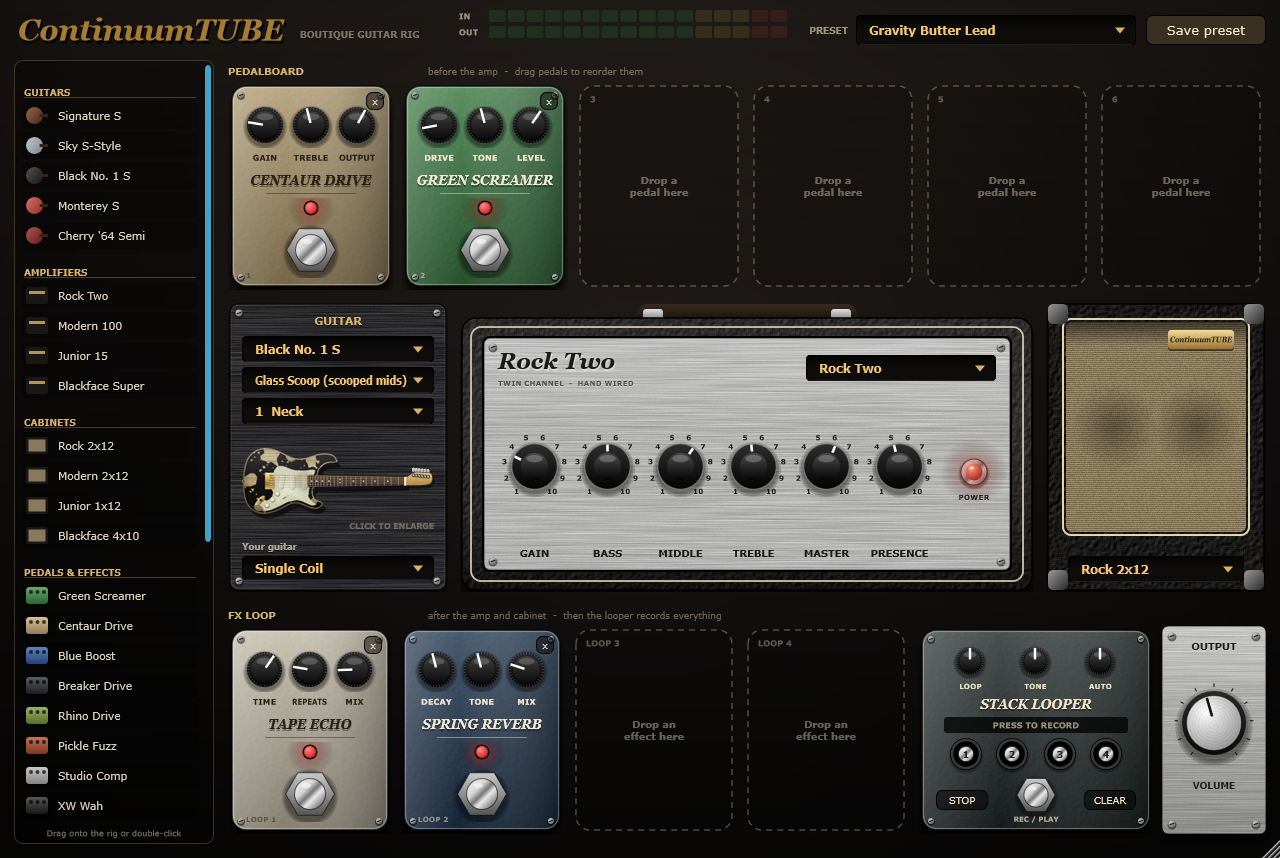
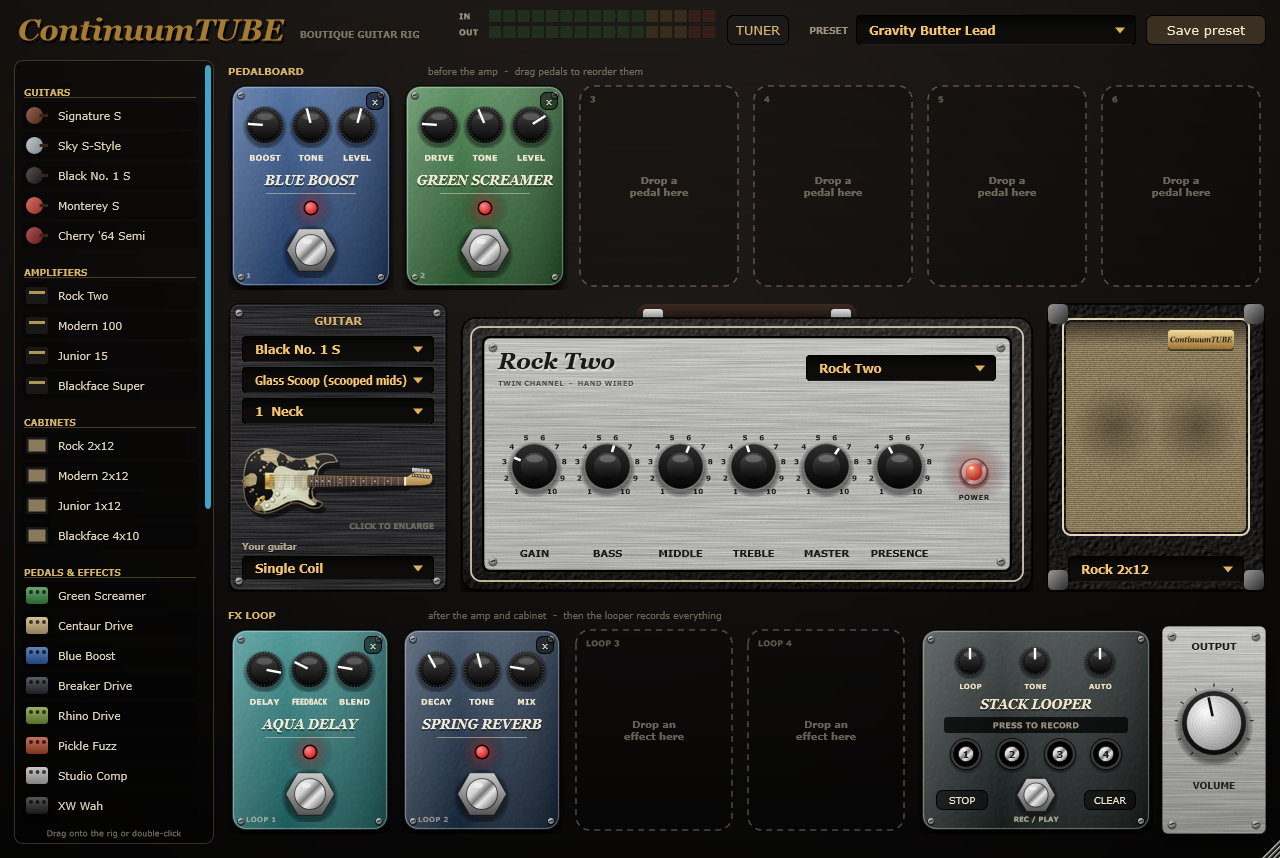
1.2.0: installer, tuner, Noise Gate / Auto Swell / Shimmer Verb, Ethereal Reverb preset, live-era Gravity and Slow Dancing

diff --git a/index.html b/index.html
@@ -4,11 +4,11 @@
 <meta charset="utf-8">
 <meta name="viewport" content="width=device-width, initial-scale=1">
 <title>ContinuumTUBE — boutique guitar rig</title>
-<meta name="description" content="ContinuumTUBE: a free boutique guitar rig for Windows. Five guitars, four tube amps with their own cabinets, twenty-two pedals, a four-track looper and fifteen song-inspired presets. VST3 plugin and standalone app.">
+<meta name="description" content="ContinuumTUBE: a free boutique guitar rig for Windows. Five guitars, four tube amps with their own cabinets, twenty-five pedals, a four-track looper, a tuner and sixteen presets. VST3 plugin and standalone app.">
 <meta property="og:type" content="website">
 <meta property="og:url" content="https://ale-studios.github.io/ContinuumTUBE/">
 <meta property="og:title" content="ContinuumTUBE — boutique guitar rig">
-<meta property="og:description" content="Five guitars, four tube amps, twenty-two pedals and a looper. Free VST3 + standalone for Windows.">
+<meta property="og:description" content="Five guitars, four tube amps, twenty-five pedals, a looper and a tuner. Free VST3 + standalone for Windows.">
 <meta property="og:image" content="https://ale-studios.github.io/ContinuumTUBE/media/shots/rig-gravity.png">
 <meta property="og:image:width" content="1280">
 <meta property="og:image:height" content="858">
@@ -140,14 +140,14 @@
   <nav>
     <a class="logo" href="#">ContinuumTUBE</a>
     <div class="links">
-      <a href="#guitars">Guitars</a><a href="#amps">Amps</a><a href="#pedals">Pedals</a><a href="#looper">Looper</a><a href="#presets">Presets</a><a href="#download">Download</a>
+      <a href="#guitars">Guitars</a><a href="#amps">Amps</a><a href="#pedals">Pedals</a><a href="#looper">Looper</a><a href="#tuner">Tuner</a><a href="#presets">Presets</a><a href="#download">Download</a>
     </div>
   </nav>
 
   <header class="hero">
     <h1>ContinuumTUBE</h1>
     <p class="lead">A boutique guitar rig for Windows. Five guitars, four tube amps with their own cabinets,
-      twenty-two pedals, a looper and fifteen song-inspired presets — as a VST3 plugin and a standalone app.</p>
+      twenty-five pedals, a looper, a tuner and sixteen presets — as a VST3 plugin and a standalone app.</p>
     <div class="video">
       <video src="media/continuumtube.webm" poster="media/shots/rig-gravity.png" controls autoplay muted loop playsinline></video>
     </div>
@@ -219,7 +219,7 @@
 
 <section id="pedals">
   <div class="wrap">
-    <h2>Twenty-two pedals</h2>
+    <h2>Twenty-five pedals</h2>
     <p class="sub">Six slots before the amp, four in the FX loop after the cabinet. Every pedal has its own face, knobs and footswitch.</p>
     <div class="board">
       <img src="media/pedals/studio-comp.png" alt="Studio Comp" loading="lazy">
@@ -233,10 +233,11 @@
       <img src="media/pedals/spring-reverb.png" alt="Spring Reverb" loading="lazy">
       <img src="media/pedals/stone-verb.png" alt="Stone Verb" loading="lazy">
     </div>
-    <p class="sub" style="margin:26px auto 0">…and twelve more:</p>
+    <p class="sub" style="margin:26px auto 0">…and fifteen more:</p>
     <div class="pedals">
       <span>Crown Drive</span><span>Twin Drive</span><span>Breaker Drive</span><span>Rhino Drive</span><span>Blues Drive K</span>
       <span>Pickle Fuzz</span><span>XW Wah</span><span>Envelope Q</span><span>Sub Octave</span><span>Script Phaser</span><span>Opto Tremolo</span><span>Hall Reverb</span>
+      <span>Noise Gate</span><span>Auto Swell</span><span>Shimmer Verb</span>
     </div>
   </div>
 </section>
@@ -249,10 +250,18 @@
   </div>
 </section>
 
+<section id="tuner">
+  <div class="wrap">
+    <h2>A tuner, one click away</h2>
+    <p class="sub">Click TUNER in the header and play a string: the note, a 25-LED cents scale and arrows that tell you which way to turn. It can mute the output while you tune.</p>
+    <figure class="shot" style="margin:0 auto;max-width:860px"><img src="media/shots/tuner.png" alt="The built-in tuner" loading="lazy"></figure>
+  </div>
+</section>
+
 <section id="presets">
   <div class="wrap">
-    <h2>Fifteen song-inspired presets</h2>
-    <p class="sub">Starting points built around the tones of specific songs and eras: mostly clean or just breaking up, with a few crunch and lead sounds that each use a different drive. All at a similar volume.</p>
+    <h2>Sixteen presets</h2>
+    <p class="sub">Starting points built around the tones of specific songs and eras: mostly clean or just breaking up, with a few crunch and lead sounds that each use a different drive. Plus Ethereal Reverb: every note swells in from silence and hangs in a huge, shimmering space. All at a similar volume.</p>
     <div class="presets">
       <div><b>Gravity Butter Lead</b><small>Black No. 1 S · Rock Two</small></div>
       <div><b>Slow Dancing Room</b><small>Black No. 1 S · Rock Two</small></div>
@@ -269,6 +278,7 @@
       <div><b>Crossroads Shuffle 335</b><small>Cherry '64 Semi · Modern 100</small></div>
       <div><b>No Such Thing Junior</b><small>Signature S · Junior 15</small></div>
       <div><b>Why Georgia Junior</b><small>Signature S · Junior 15</small></div>
+      <div><b>Ethereal Reverb</b><small>Sky S-Style · Blackface Super</small></div>
     </div>
   </div>
 </section>
@@ -276,11 +286,11 @@
 <section id="download">
   <div class="wrap">
     <h2>Get started</h2>
-    <p class="sub">Free, offline, no account. One zip with both the plugin and the standalone app.</p>
+    <p class="sub">Free, offline, no account. One installer with both the plugin and the standalone app.</p>
     <div class="steps">
-      <div class="step"><h3>Download</h3><p>Get <code>ContinuumTUBE-1.1.0-Windows.zip</code> from the <a href="https://github.com/Ale-Studios/ContinuumTUBE/releases/latest">latest release</a> and unzip it.</p></div>
-      <div class="step"><h3>Play standalone</h3><p>Run <code>ContinuumTUBE.exe</code>, open <b>Options → Audio/MIDI Settings</b> and pick your interface. Choose <b>Windows Audio (Low Latency Mode)</b> for the lowest latency.</p></div>
-      <div class="step"><h3>Or in your DAW</h3><p>Copy <code>ContinuumTUBE.vst3</code> to <code>C:\Program Files\Common Files\VST3</code> and rescan plugins.</p></div>
+      <div class="step"><h3>Install</h3><p>Get <code>ContinuumTUBE-1.2.0-Setup.exe</code> from the <a href="https://github.com/Ale-Studios/ContinuumTUBE/releases/latest">latest release</a> and run it. It installs the app and the VST3 plugin. (A plain zip is there too.)</p></div>
+      <div class="step"><h3>Play standalone</h3><p>Open ContinuumTUBE from the Start menu, then <b>Options → Audio/MIDI Settings</b> and pick your interface. Choose <b>Windows Audio (Low Latency Mode)</b> for the lowest latency.</p></div>
+      <div class="step"><h3>Or in your DAW</h3><p>Rescan plugins: ContinuumTUBE is already in the VST3 folder.</p></div>
     </div>
     <div class="cta"><a class="btn btn-brass" href="https://github.com/Ale-Studios/ContinuumTUBE/releases/latest">Download for Windows — free</a>
       <a class="btn btn-line" href="https://github.com/Ale-Studios/ContinuumTUBE/blob/main/MANUAL.md">Read the manual</a></div>

diff --git a/MANUAL.md b/MANUAL.md
@@ -12,6 +12,7 @@
 | **FX loop** (bottom) | Four slots after the cabinet, for delays, reverbs and modulation. |
 | **Stack Looper** | Four-track looper at the very end of the chain: it records everything you hear. See [Stack Looper](#stack-looper). |
 | **Output** | Final volume. Keep the **OUT** meter out of the red. |
+| **Tuner** | The **TUNER** button in the header. See [Tuner](#tuner). |
 | **Preset / Save preset** | Factory presets and your own. Saved presets go to `Documents\ContinuumTUBE Presets`. |
 
 The window can be resized or maximised: everything scales.
@@ -68,13 +69,31 @@ The window can be resized or maximised: everything scales.
 | Spring Reverb | spring reverb | Decay · Tone · Mix |
 | Stone Verb | studio reverb | Decay · Tone · Mix |
 | Hall Reverb | large hall with pre-delay | Decay · Tone · Mix |
+| Noise Gate | silences hiss and hum between notes | Thresh · Release · Range |
+| Auto Swell | every note fades in from silence, like a volume pedal | Sens · Attack · Level |
+| Shimmer Verb | huge reverb whose tail rises an octave | Decay · Shimmer · Mix |
+
+**Noise Gate** works best first on the pedalboard, or right after your drives. **THRESH** sets
+how quiet the signal must get before it closes, **RELEASE** how gently it closes, **RANGE** how
+far down it goes.
+
+**Auto Swell** restarts from silence on each new note played after a pause. **SENS** sets how
+hard you must play for it to trigger, **ATTACK** how long the fade-in takes (from an instant to
+two seconds), **LEVEL** the final volume. Legato notes are not swelled one by one; raise **SENS**
+if you want them to be.
+
+**Shimmer Verb** feeds its own tail through an octave-up shifter. **DECAY** sets the size of the
+space, **SHIMMER** how much octave-up comes back in, **MIX** how much reverb you hear.
+
+A pedal can be loaded switched off: some presets keep a drive on the board, off, for you to
+stomp on for the solo.
 
 ## Presets
 
 | Preset | Guitar | Amp | Drive | In short |
 |---|---|---|---|---|
-| Gravity Butter Lead | Black No. 1 S, neck | Rock Two | crunch | the smooth, singing lead: a transparent drive into a light mid-hump drive, tape echo |
-| Slow Dancing Room | Black No. 1 S, pos. 2 | Rock Two | edge of breakup | clean that only breaks up when you dig in |
+| Gravity Butter Lead | Black No. 1 S, neck | Rock Two | crunch | the live-era singing lead: a clean boost into a low-gain, loud mid-hump drive, analog delay and spring |
+| Slow Dancing Room | Black No. 1 S, pos. 2 | Rock Two | edge of breakup | live-era riff: a clean boost just pushing the amp, slapback and spring; the Green Screamer is on the board, off, for the solo |
 | Heart of Life Clean | Black No. 1 S, pos. 2 | Rock Two | clean | soft, compressed fingerpicking clean |
 | Edge of Desire Ambient | Black No. 1 S, neck | Rock Two | clean | long echo into the Hall Reverb |
 | Waiting World Clean | Signature S, pos. 4 | Blackface Super | clean | bright, funky in-between clean |
@@ -88,6 +107,7 @@ The window can be resized or maximised: everything scales.
 | Crossroads Shuffle 335 | Cherry '64 Semi, bridge | Modern 100 | lead | humbucker shuffle on the amp's own drive, no pedals |
 | No Such Thing Junior | Signature S, pos. 4 | Junior 15 | clean | early-years small-combo clean |
 | Why Georgia Junior | Signature S, pos. 2 | Junior 15 | clean | compressed small-combo clean |
+| Ethereal Reverb | Sky S-Style, pos. 4 | Blackface Super | clean | each note swells in from silence, then hangs for about ten seconds in echo, shimmer and two halls |
 
 Presets are level-matched: switching between a clean and a lead preset keeps a similar volume.
 Loading a preset doesn't touch the looper.
@@ -110,6 +130,19 @@ every pedal, the amp and the cabinet.
 Loops keep playing when you change preset: loop a clean rhythm, switch to a lead preset and play
 over it. Each track holds up to 60 seconds (30 seconds above 50 kHz).
 
+## Tuner
+
+Click **TUNER** in the header and play a single open string.
+
+- The big letter is the nearest note; the LED scale shows how far off it is, from −50 to +50 cents.
+  The green centre LED lights when you are in tune.
+- The arrows tell you which way to turn the peg.
+- **E2 – E4** shows the six strings of standard tuning; the one you are playing lights up.
+- **Mute output while tuning** silences the rig while the tuner is open (on by default).
+- Reference: A4 = 440 Hz.
+
+Close it with **x** or the Esc key.
+
 ## Standalone audio settings
 
 **Options → Audio/MIDI Settings**: choose the device type, then your interface's input and output.
@@ -124,6 +157,7 @@ over it. Each track holds up to 60 seconds (30 seconds above 50 kHz).
 | Problem | Fix |
 |---|---|
 | No sound in the standalone app | Check input/output in Audio/MIDI Settings and that the input isn't muted. |
-| The plugin doesn't appear in the DAW | Make sure the whole `ContinuumTUBE.vst3` folder is in `C:\Program Files\Common Files\VST3`, then rescan. |
+| The plugin doesn't appear in the DAW | Rescan plugins. If you used the zip, make sure the whole `ContinuumTUBE.vst3` folder is in `C:\Program Files\Common Files\VST3`. If you installed for your user only, add `%LOCALAPPDATA%\Programs\Common\VST3` to your DAW's plugin folders. |
+| No sound with the tuner open | Untick **Mute output while tuning**, or close the tuner. |
 | Crackles | Raise the buffer size. |
 | Too much distortion | Lower the interface's input gain or the amp's Gain. |

diff --git a/README.md b/README.md
@@ -5,7 +5,7 @@
 <h1 align="center">ContinuumTUBE</h1>
 
 <p align="center">
-  <b>A John Mayer Fan guitar rig for Windows — five guitars, four tube amps, twenty-two pedals and a looper.</b><br>
+  <b>A John Mayer Fan guitar rig for Windows — five guitars, four tube amps, twenty-five pedals, a looper and a tuner.</b><br>
   VST3 plugin + standalone app · free to use
 </p>
 
@@ -50,31 +50,41 @@ Pick the model and ContinuumTUBE reshapes the pickup response of the guitar you'
 | **Blackface Super** · 4x10 | scooped, sparkling, lots of headroom |
 
 **Pedals & effects** — overdrives, a fuzz, boost, compressor, wah, envelope filter, octave,
-vibe, phaser, chorus, tremolo, analog and tape delay, spring, studio and hall reverb.
+vibe, phaser, chorus, tremolo, analog and tape delay, spring, studio and hall reverb, a noise gate,
+an auto volume swell and a shimmer reverb whose tail rises an octave.
 
 **Stack Looper** — a four-track looper at the end of the chain. Hit the footswitch and it starts
 recording on your first note, with every effect you're using; layer up to four tracks, mute or
 clear each one. Loops keep playing when you change preset, so you can loop a clean rhythm and
 solo over it with a lead sound.
 
-**15 song-inspired presets** — mostly clean or just breaking up, like the songs, with a few
-crunch and lead sounds that each use a different kind of drive. All set to a similar volume.
-Full list in the [manual](MANUAL.md#presets).
+**Tuner** — click **TUNER** in the header: chromatic, accurate to about a cent, and it can mute
+the output while you tune.
+
+**16 presets** — fifteen song-inspired sounds, mostly clean or just breaking up, like the songs,
+with a few crunch and lead sounds that each use a different kind of drive; plus
+**Ethereal Reverb**, where every note swells in from silence and hangs in a huge shimmering space.
+All set to a similar volume. Full list in the [manual](MANUAL.md#presets).
 
 <table>
 <tr>
 <td width="50%"><img src="media/shots/guitar-view.png" alt="Large guitar view with pickup and selector buttons"><br><sub>Click a guitar for the large view: pickups and selector, up close.</sub></td>
-<td width="50%"><img src="media/shots/rig-crossroads.png" alt="Semi-hollow guitar into the Modern 100"><br><sub>The semi-hollow into the Modern 100 overdrive channel.</sub></td>
+<td width="50%"><img src="media/shots/tuner.png" alt="The built-in tuner"><br><sub>The built-in tuner, one click away.</sub></td>
 </tr>
 </table>
 
 ## Download & install
 
-1. Download **`ContinuumTUBE-1.1.0-Windows.zip`** from [Releases](../../releases/latest) and unzip it.
-2. **Standalone:** run `ContinuumTUBE.exe`, open **Options → Audio/MIDI Settings**, choose your
+1. Download **`ContinuumTUBE-1.2.0-Setup.exe`** from [Releases](../../releases/latest) and run it.
+   It installs the standalone app (with Start menu and optional desktop shortcut) and the VST3
+   plugin in the standard VST3 folder. Uninstall it from Windows Settings like any other app.
+2. **Standalone:** open ContinuumTUBE, then **Options → Audio/MIDI Settings** and choose your
    audio interface's input and output.
-3. **Plugin:** copy the `ContinuumTUBE.vst3` folder into `C:\Program Files\Common Files\VST3`,
-   then rescan plugins in your DAW.
+3. **Plugin:** rescan plugins in your DAW.
+
+Prefer no installer? Download **`ContinuumTUBE-1.2.0-Windows.zip`** instead, unzip it, run
+`ContinuumTUBE.exe`, and copy the `ContinuumTUBE.vst3` folder into
+`C:\Program Files\Common Files\VST3`.
 
 > Windows may show *"Windows protected your PC"* the first time, because the app isn't code-signed.
 > Click **More info → Run anyway**.
